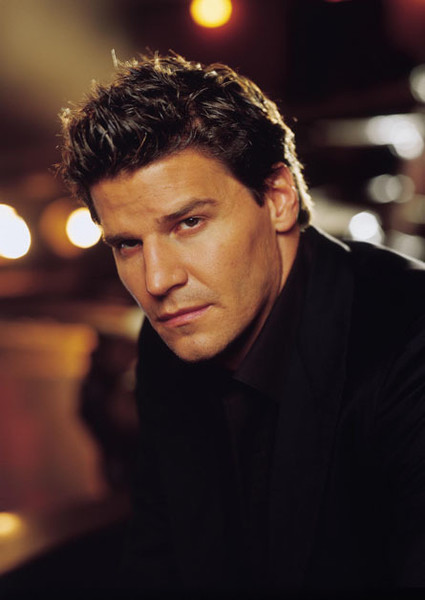
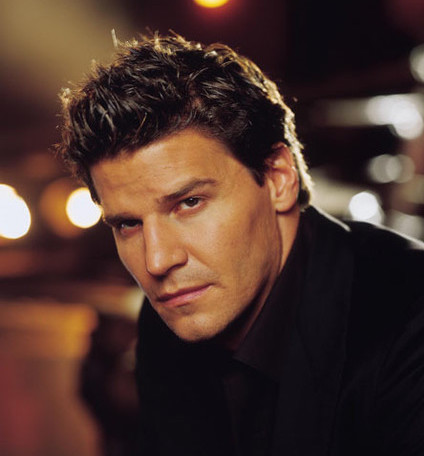
Added main section. Resized images.

diff --git a/index.html b/index.html
@@ -23,6 +23,12 @@
       href="https://fonts.googleapis.com/css2?family=Poppins&display=swap"
       rel="stylesheet"
     />
+    <link
+      href="https://cdn.jsdelivr.net/npm/bootstrap@5.3.0-alpha1/dist/css/bootstrap.min.css"
+      rel="stylesheet"
+      integrity="sha384-GLhlTQ8iRABdZLl6O3oVMWSktQOp6b7In1Zl3/Jr59b6EGGoI1aFkw7cmDA6j6gD"
+      crossorigin="anonymous"
+    />
     <link rel="stylesheet" href="src/styles.css" />
 
     <title>Angel Investigations</title>
@@ -34,8 +40,32 @@
         <h2>We help the helpless</h2>
         <a href="#more">Contact Us</a>
       </header>
+      <main>
+        <section class="grid grid-2-columns">
+          <div>
+            <img
+              src="images/angel.jpeg"
+              alt="Angel headshot"
+              class="img-responsive"
+            />
+          </div>
+          <div>
+            <h2>Why Angel Investigations?</h2>
+            <h3>If you need help, then look no further.</h3>
+            <p>
+              Angel Investigations is the best. Our rates are low, but our
+              standards are high. When the chips are down, and you're at the end
+              of your rope, you need someone that you can count on. And that's
+              what you'll find here. Someone who'll go all the way, who'll
+              protect you no matter what. So don't lose hope. Come on over to
+              our offices, and you'll see that there's still heroes in this
+              world.
+            </p>
+          </div>
+        </section>
+      </main>
       <footer>
-        <section class="grid">
+        <section class="grid grid-3-columns-1-narrow">
           <div>
             <h3>More about Angel Investigations</h3>
             <ul>

diff --git a/src/styles.css b/src/styles.css
@@ -10,13 +10,25 @@ body {
 
 .grid {
   display: grid;
-  grid-template-columns: 1fr 2fr 2fr;
   grid-gap: 64px;
+}
+
+.grid-2-columns {
+  grid-template-columns: 1fr 1fr;
+}
+
+.grid-3-columns-1-narrow {
+  grid-template-columns: 1fr 2fr 2fr;
+}
+
+.img-responsive {
+  max-width: 100%;
 }
 
 section {
   max-width: 1200px;
   margin: 0 auto;
+  padding: 100px 0;
 }
 
 header {
@@ -60,10 +72,50 @@ header a {
   display: inline-block;
   text-align: center;
   text-decoration: none;
-  background: #520707;
+  background: #885df1;
   border-radius: 100px;
   color: white;
   padding: 16px 32px;
+}
+
+main {
+  background: #12101d;
+}
+
+main h2 {
+  font-family: "Poppins";
+  font-style: normal;
+  font-weight: 700;
+  font-size: 13px;
+  line-height: 1.5;
+  letter-spacing: 5px;
+  text-transform: uppercase;
+  color: #5bd5e3;
+  margin: 0;
+  background: rgba(91, 213, 227, 0.15);
+  padding: 2px 6px;
+  gap: 10px;
+  width: 323px;
+  height: 24px;
+}
+
+main h3 {
+  font-family: "Playfair Display";
+  font-style: normal;
+  font-weight: 700;
+  font-size: 48px;
+  line-height: 1.5;
+  color: #ffffff;
+  margin: 0;
+}
+
+main P {
+  font-style: normal;
+  font-weight: 400;
+  font-size: 16px;
+  line-height: 1.5;
+  color: #f9f4ff;
+  opacity: 0.7;
 }
 
 footer {
@@ -72,7 +124,6 @@ footer {
     url("../images/losangeles.jpeg");
   background-size: cover;
   background-repeat: no-repeat;
-  padding: 100px 0;
 }
 
 footer h3 {
@@ -120,5 +171,18 @@ footer p {
 
   header h2 {
     font-size: 20px;
+  }
+
+  h3 {
+    font-size: 12px;
+  }
+
+  .grid {
+    grid-template-columns: 1fr;
+    grid-gap: 32px;
+  }
+
+  section {
+    padding: 30px;
   }
 }
